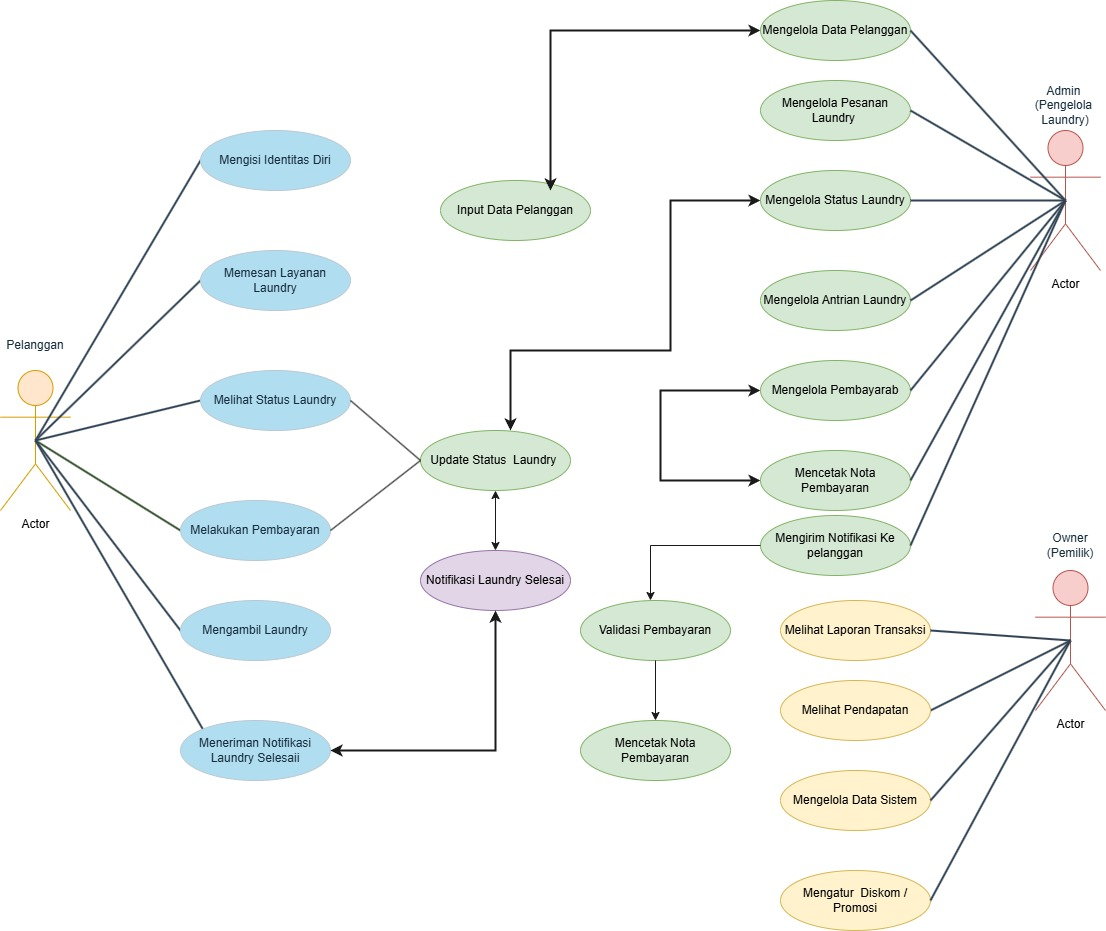
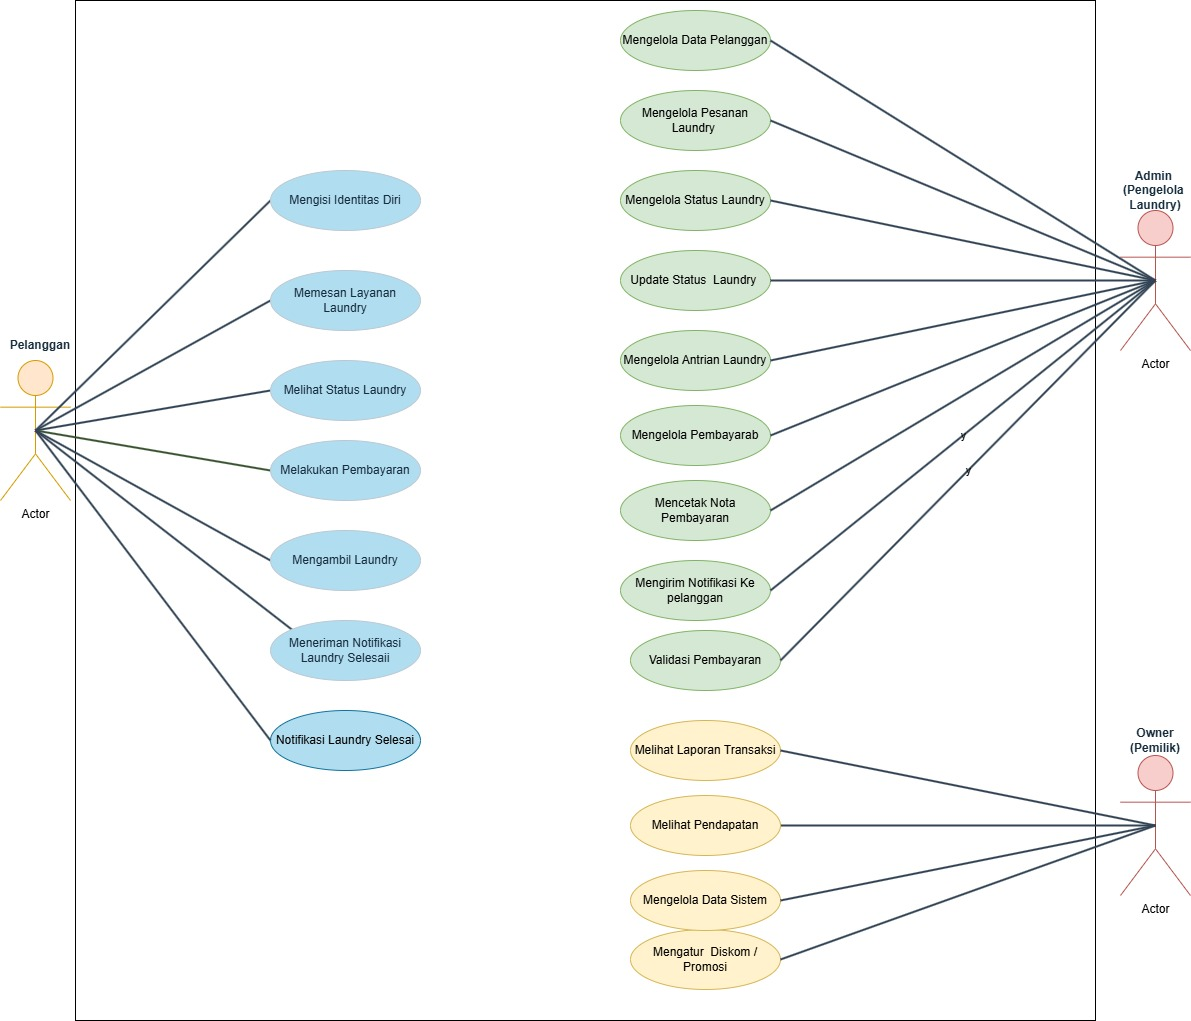
Memperbarui Use Case Diagram dan dokumentasi

diff --git a/README.md b/README.md
@@ -195,44 +195,22 @@
 
 ## Diagram
 * **Usecase Diagram:**
-   ![Diagram Use Case](Dokumentasi-Wawancara/Diagram-UseCase.jpg)
+   ![Diagram Use Case](Dokumentasi-Wawancara/Diagram-useCase.jpg)
 
-*  **Class Diagram:**<br>
- <img width="365" height="430" alt="image" src="https://github.com/user-attachments/assets/a61d41d2-a411-4adb-a1d0-ad57abbfe51f" />
+*  **Class Diagram:**
+ 
 
 
 * **State Diagram:**
 
 
+
+
 * **Squence Diagram:**
-    <img width="700" height="450" src="Dokumentasi-Wawancara/squence_diagram.jpg">
-    #### 🔄 Penjelasan Alur Per Fase:
-* **PHASE 1: Registrasi & Input Pesanan**
-    * **Pelanggan** datang membawa cucian dan memilih jenis layanan.
-    * **Admin** memicu fungsi `inputPesanan()` pada sistem untuk mencatat identitas, berat/qty, dan catatan kondisi pakaian (misal: pakaian mudah luntur).
-    * Sistem melalui kelas **Admin** melakukan cek tarif ke objek **Layanan** untuk mengambil data `harga_per_unit`.
-    * Objek **Pesanan** mengeksekusi fungsi `hitungTotal()` dan mengembalikan kalkulasi total harga ke **Admin** untuk diinfokan ke pelanggan.
-
-* **PHASE 2: Proses Pembayaran (Contoh: Bayar di Awal)**
-    * **Pelanggan** membayar sesuai tagihan (via Cash/QRIS/Transfer).
-    * **Admin** melakukan `validasiPembayaran()` di dalam sistem.
-    * Sistem mengubah parameter `status_bayar` pada objek **Pembayaran** menjadi Lunas (`L`) dan mengeksekusi fungsi `cetakKwitansi()`.
-    * **Admin** menyerahkan nota/kwitansi fisik kepada **Pelanggan**.
-
-* **PHASE 3: Proses Laundry & Update Status**
-    * Pakaian masuk ke antrian operasional pengerjaan (*Sorting* -> Cuci -> Setrika -> Packing).
-    * Secara berkala, **Admin** melakukan pembaruan data internal sistem melalui fungsi *self-message* `updateStatus()`, mulai dari `"Sedang Dicuci"`, `"Sedang Setrika"`, hingga `"Selesai"`.
-
-* **PHASE 4: Notifikasi & Pengambilan**
-    * Ketika status pesanan berubah menjadi `"Selesai"`, **Admin** memicu fungsi `kirimNotifikasi()` yang secara otomatis mengirim pesan WhatsApp ke HP **Pelanggan**.
-    * **Pelanggan** datang membawa nota, **Admin** mengubah status akhir melalui `updateStatus("Diambil")` dan menyerahkan pakaian bersih ke pelanggan.
-
-* **PHASE 5: Pelaporan & Pemantauan Owner**
-    * **Owner** dapat mengakses sistem kapan saja dengan memanggil fungsi `ihatLaporan()` untuk melihat laporan pendapatan harian/bulanan secara *real-time*.
-    * **Owner** juga memiliki hak akses untuk memanggil fungsi `kelolaPromo()` pada objek **Layanan** guna mengatur diskon atau mengubah tarif dasar laundry.
-
 
 * **Activity Diagram:**
+
+   ![Diagram Activity](#)
 
 #### PROBLEM DARI HASIL WAWANCARA
 * Baju yang sudah selesai di laundry tidak diambil segera oleh pemiliknya yang membuat tempat Laundry penuh.